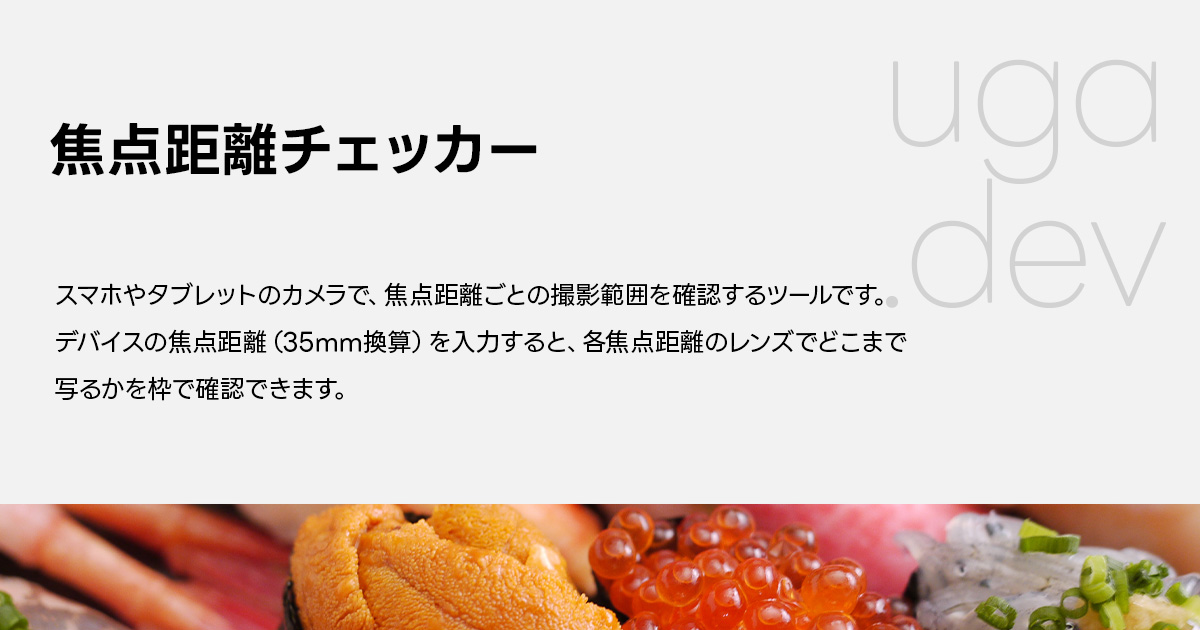
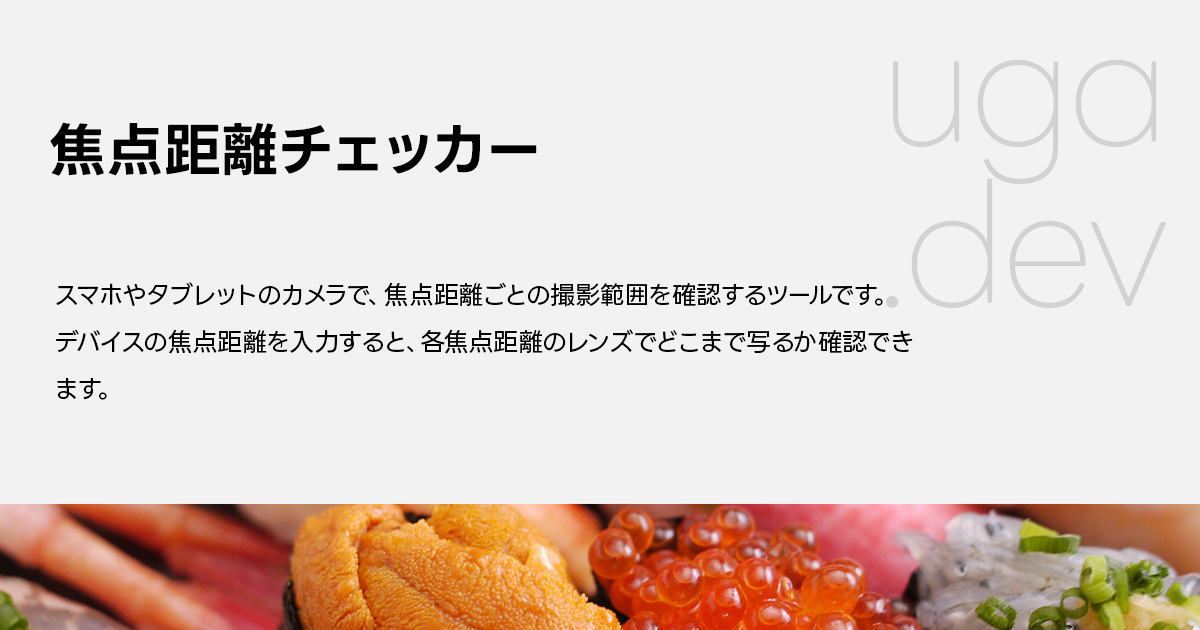
Update focal-length-checker description and OGP image

Changed region(s): [[0.2158, 0.5127, 0.7708, 0.573], [0.0308, 0.6032, 0.2775, 0.6333]]

diff --git a/src/constants/seo.ts b/src/constants/seo.ts
@@ -455,7 +455,7 @@ export const SEO: Record<
   '/tools/focal-length-checker': {
     title: '焦点距離チェッカー',
     description:
-      'スマホやタブレットのカメラで、焦点距離ごとの撮影範囲を確認するツールです。\nデバイスの焦点距離（35mm換算）を入力すると、各焦点距離のレンズでどこまで写るかを枠で確認できます。',
+      'スマホやタブレットのカメラで、焦点距離ごとの撮影範囲を確認するツールです。\nデバイスの焦点距離を入力すると、各焦点距離のレンズでどこまで写るか確認できます。',
   },
   '/tools/markup-dev-supporter': {
     title: 'HTMLでtable実装するときとかに役立つツール',